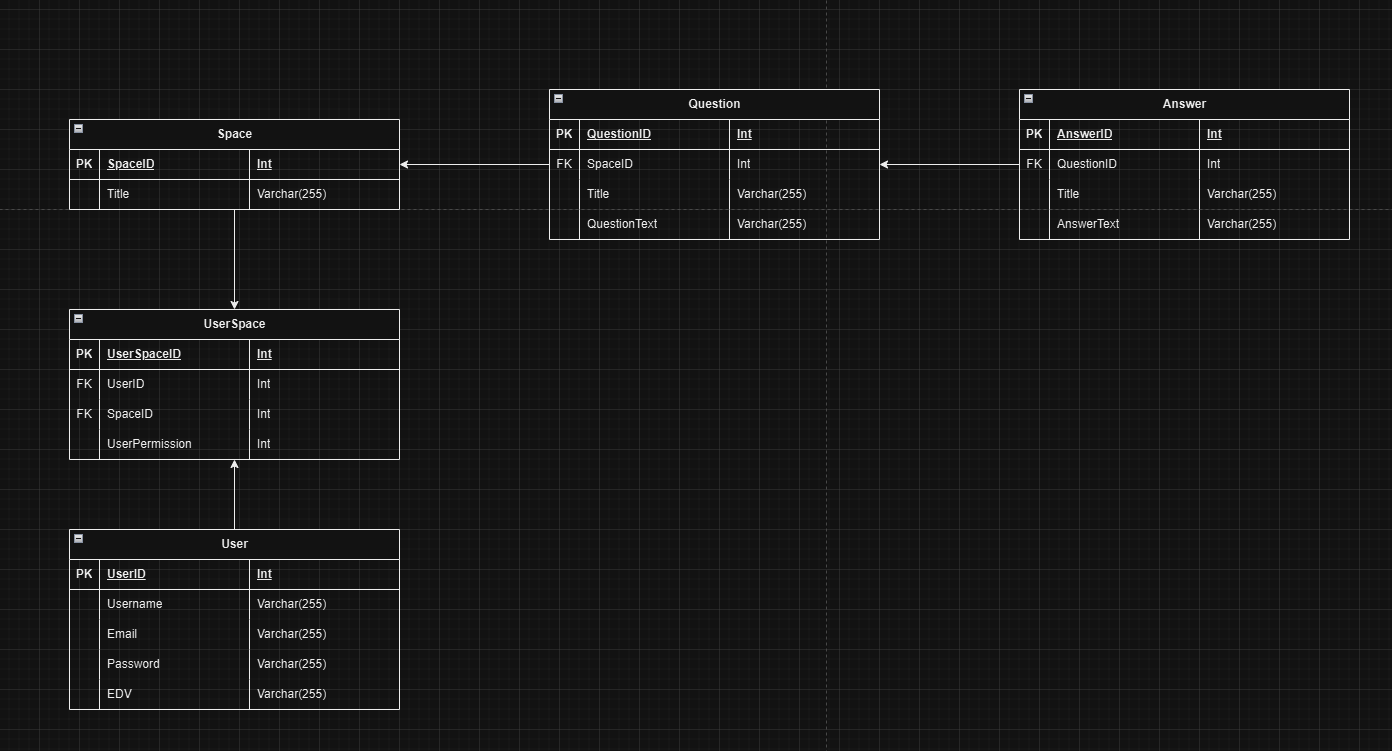
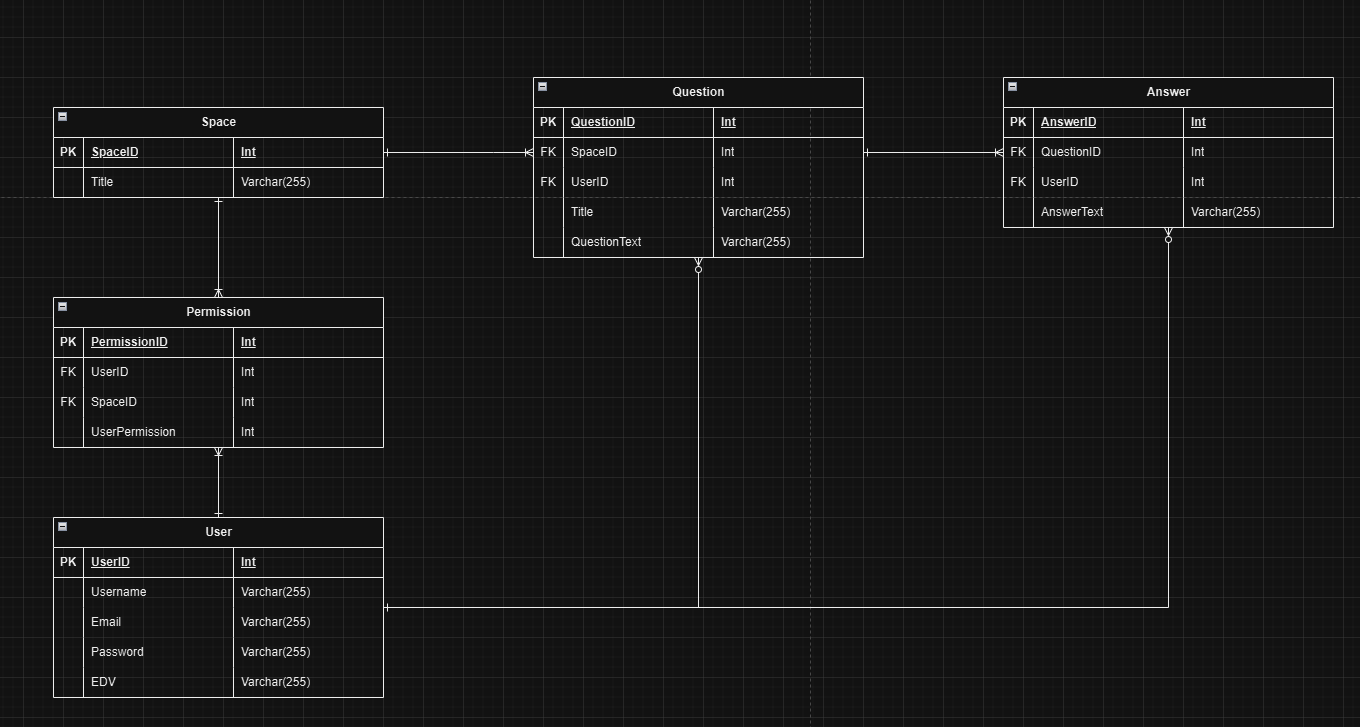
Changed some variables, functions and DTO's

diff --git a/src/main/java/com/example/demo/models/PermissionEntity.java b/src/main/java/com/example/demo/models/PermissionEntity.java
@@ -10,19 +10,18 @@ import jakarta.persistence.OneToOne;
 import jakarta.persistence.Table;
 
 @Entity
-@Table( name = "tbPermission") //  mudando o nome da tabela 
+@Table( name = "tbPermission") // Mudando o nome da tabela 
 public class PermissionEntity {
     
     @Id
     @GeneratedValue(strategy = GenerationType.IDENTITY)
-    private Long id;
+    private Long permissionId;
 
-    public Long getId() {
-        return id;
+    public Long getPermissionId() {
+        return permissionId;
     }
 
     @OneToOne
-    // @PrimaryKeyJoinColumn
     @JoinColumn(name = "space_id")
     private SpaceEntity spaceId;
 
@@ -31,7 +30,6 @@ public class PermissionEntity {
     }
 
     @OneToOne
-    // @PrimaryKeyJoinColumn
     @JoinColumn(name = "user_id")
     private UserEntity userId;
 
@@ -40,7 +38,7 @@ public class PermissionEntity {
     }
 
     @Column
-    private Integer permission;  // LER A DOCUMENTAÇÃO PARA ENTENDER O QUE É CADA COISA AQUI
+    private Integer permission; 
 
     public Integer getPermission() {
         return permission;

diff --git a/src/main/java/com/example/demo/models/AnswerEntity.java b/src/main/java/com/example/demo/models/AnswerEntity.java
@@ -10,7 +10,7 @@ import jakarta.persistence.ManyToOne;
 import jakarta.persistence.Table;
 
 @Entity
-@Table( name = "tbAnswer") //  mudando o nome da tabela 
+@Table( name = "tbAnswer") // Mudando o nome da tabela 
 public class AnswerEntity {
 
     @Id
@@ -32,13 +32,21 @@ public class AnswerEntity {
         this.answerText = answerText;
     }
 
+    /*
+     * Conectando a Answer com a sua devida Question
+    */
+
     @ManyToOne
     @JoinColumn( name = "space_id")
-    private SpaceEntity spaceId;
+    private QuestionEntity questionId;
 
-    public SpaceEntity getSpaceId() {
-        return spaceId;
+    public QuestionEntity getQuestionId() {
+        return questionId;
     }
+
+    /*
+     * Conectando a Answer com o usuário que a criou
+    */
 
     @ManyToOne
     @JoinColumn( name = "user_id")

diff --git a/src/main/java/com/example/demo/models/QuestionEntity.java b/src/main/java/com/example/demo/models/QuestionEntity.java
@@ -10,7 +10,7 @@ import jakarta.persistence.ManyToOne;
 import jakarta.persistence.Table;
 
 @Entity
-@Table( name = "tbQuestion") //  mudando o nome da tabela 
+@Table( name = "tbQuestion") // Mudando o nome da tabela 
 public class QuestionEntity {
 
     @Id
@@ -43,6 +43,10 @@ public class QuestionEntity {
         this.questionText = questionText;
     }
 
+    /*
+     * Conectando a pergunta com o espaço em que ela foi feita 
+    */
+
     @ManyToOne
     @JoinColumn( name = "space_id")
     private SpaceEntity spaceId;
@@ -50,6 +54,10 @@ public class QuestionEntity {
     public SpaceEntity getSpaceId() {
         return spaceId;
     }
+
+    /*
+     * Conectando a pergunta com o usuário que fez ela
+    */
 
     @ManyToOne
     @JoinColumn( name = "user_id")

diff --git a/src/main/java/com/example/demo/services/UserService.java b/src/main/java/com/example/demo/services/UserService.java
@@ -2,9 +2,17 @@ package com.example.demo.services;
 
 import org.springframework.http.ResponseEntity;
 
+import com.example.demo.dto.LoginDto.LoginDto;
+import com.example.demo.dto.LoginDto.LoginResponseDto;
 import com.example.demo.dto.UserDto.CreateUserDto;
 import com.example.demo.models.UserEntity;
 
+/*
+* Foram feitos DTO's específicos para cada uma das funções para melhor organização!
+* Para entender melhor cada uma das funções, verifique os seus DTO's
+*/ 
+
 public interface UserService {
     ResponseEntity<UserEntity> createUser(CreateUserDto newUserData);
+    ResponseEntity<LoginResponseDto> login(LoginDto loginData);
 }

diff --git a/src/main/java/com/example/demo/services/QuestionService.java b/src/main/java/com/example/demo/services/QuestionService.java
@@ -6,6 +6,11 @@ import com.example.demo.dto.QuestionDto.CreateQuestionDto;
 import com.example.demo.dto.QuestionDto.DeleteQuestionDto;
 import com.example.demo.models.QuestionEntity;
 
+/*
+* Foram feitos DTO's específicos para cada uma das funções para melhor organização!
+* Para entender melhor cada uma das funções, verifique os seus DTO's
+*/ 
+
 public interface QuestionService {
     ResponseEntity<QuestionEntity> createQuestion(CreateQuestionDto newQuestionData);
     ResponseEntity<QuestionEntity> deleteQuestion(DeleteQuestionDto questionData);

diff --git a/src/main/java/com/example/demo/services/SpaceService.java b/src/main/java/com/example/demo/services/SpaceService.java
@@ -8,6 +8,11 @@ import com.example.demo.dto.SpaceDto.CreateSpaceDto;
 import com.example.demo.dto.SpaceDto.DeleteSpaceDto;
 import com.example.demo.models.SpaceEntity;
 
+/*
+* Foram feitos DTO's específicos para cada uma das funções para melhor organização!
+* Para entender melhor cada uma das funções, verifique os seus DTO's
+*/ 
+
 public interface SpaceService {
     ResponseEntity<SpaceEntity> createSpace(CreateSpaceDto newSpaceData);
     ResponseEntity<SpaceEntity> deleteSpace(DeleteSpaceDto spaceData);

diff --git a/src/main/java/com/example/demo/services/AnswerService.java b/src/main/java/com/example/demo/services/AnswerService.java
@@ -5,6 +5,11 @@ import org.springframework.http.ResponseEntity;
 import com.example.demo.dto.AnswerDto.CreateAnswerDto;
 import com.example.demo.models.AnswerEntity;
 
+/*
+* Foram feitos DTO's específicos para cada uma das funções para melhor organização!
+* Para entender melhor cada uma das funções, verifique os seus DTO's
+*/ 
+
 public interface AnswerService {
     ResponseEntity<AnswerEntity> createAnswer(CreateAnswerDto newAnswerDto);
 }

diff --git a/src/main/java/com/example/demo/models/SpaceEntity.java b/src/main/java/com/example/demo/models/SpaceEntity.java
@@ -8,7 +8,7 @@ import jakarta.persistence.Id;
 import jakarta.persistence.Table;
 
 @Entity
-@Table( name = "tbSpace") //  mudando o nome da tabela 
+@Table( name = "tbSpace") // Mudando o nome da tabela 
 public class SpaceEntity {
     
     @Id

diff --git a/src/main/java/com/example/demo/models/UserEntity.java b/src/main/java/com/example/demo/models/UserEntity.java
@@ -8,7 +8,7 @@ import jakarta.persistence.Id;
 import jakarta.persistence.Table;
 
 @Entity
-@Table( name = "tbUser") //  mudando o nome da tabela 
+@Table( name = "tbUser") // Mudando o nome da tabela 
 public class UserEntity {
     
     @Id

diff --git a/src/main/java/com/example/demo/dto/QuestionDto/CreateQuestionDto.java b/src/main/java/com/example/demo/dto/QuestionDto/CreateQuestionDto.java
@@ -2,5 +2,6 @@ package com.example.demo.dto.QuestionDto;
 
 public record CreateQuestionDto(
     String title,
-    String text
+    String text,
+    Long spaceId
 ) {}

diff --git a/src/main/java/com/example/demo/dto/AnswerDto/CreateAnswerDto.java b/src/main/java/com/example/demo/dto/AnswerDto/CreateAnswerDto.java
@@ -1,5 +1,6 @@
 package com.example.demo.dto.AnswerDto;
 
 public record CreateAnswerDto(
-    String text
+    String text,
+    Long questionId
 ) {}

diff --git a/src/main/java/com/example/demo/dto/QuestionDto/DeleteQuestionDto.java b/src/main/java/com/example/demo/dto/QuestionDto/DeleteQuestionDto.java
@@ -1,5 +1,5 @@
 package com.example.demo.dto.QuestionDto;
 
 public record DeleteQuestionDto(
-    Long id
+    Long questionId
 ) {}
